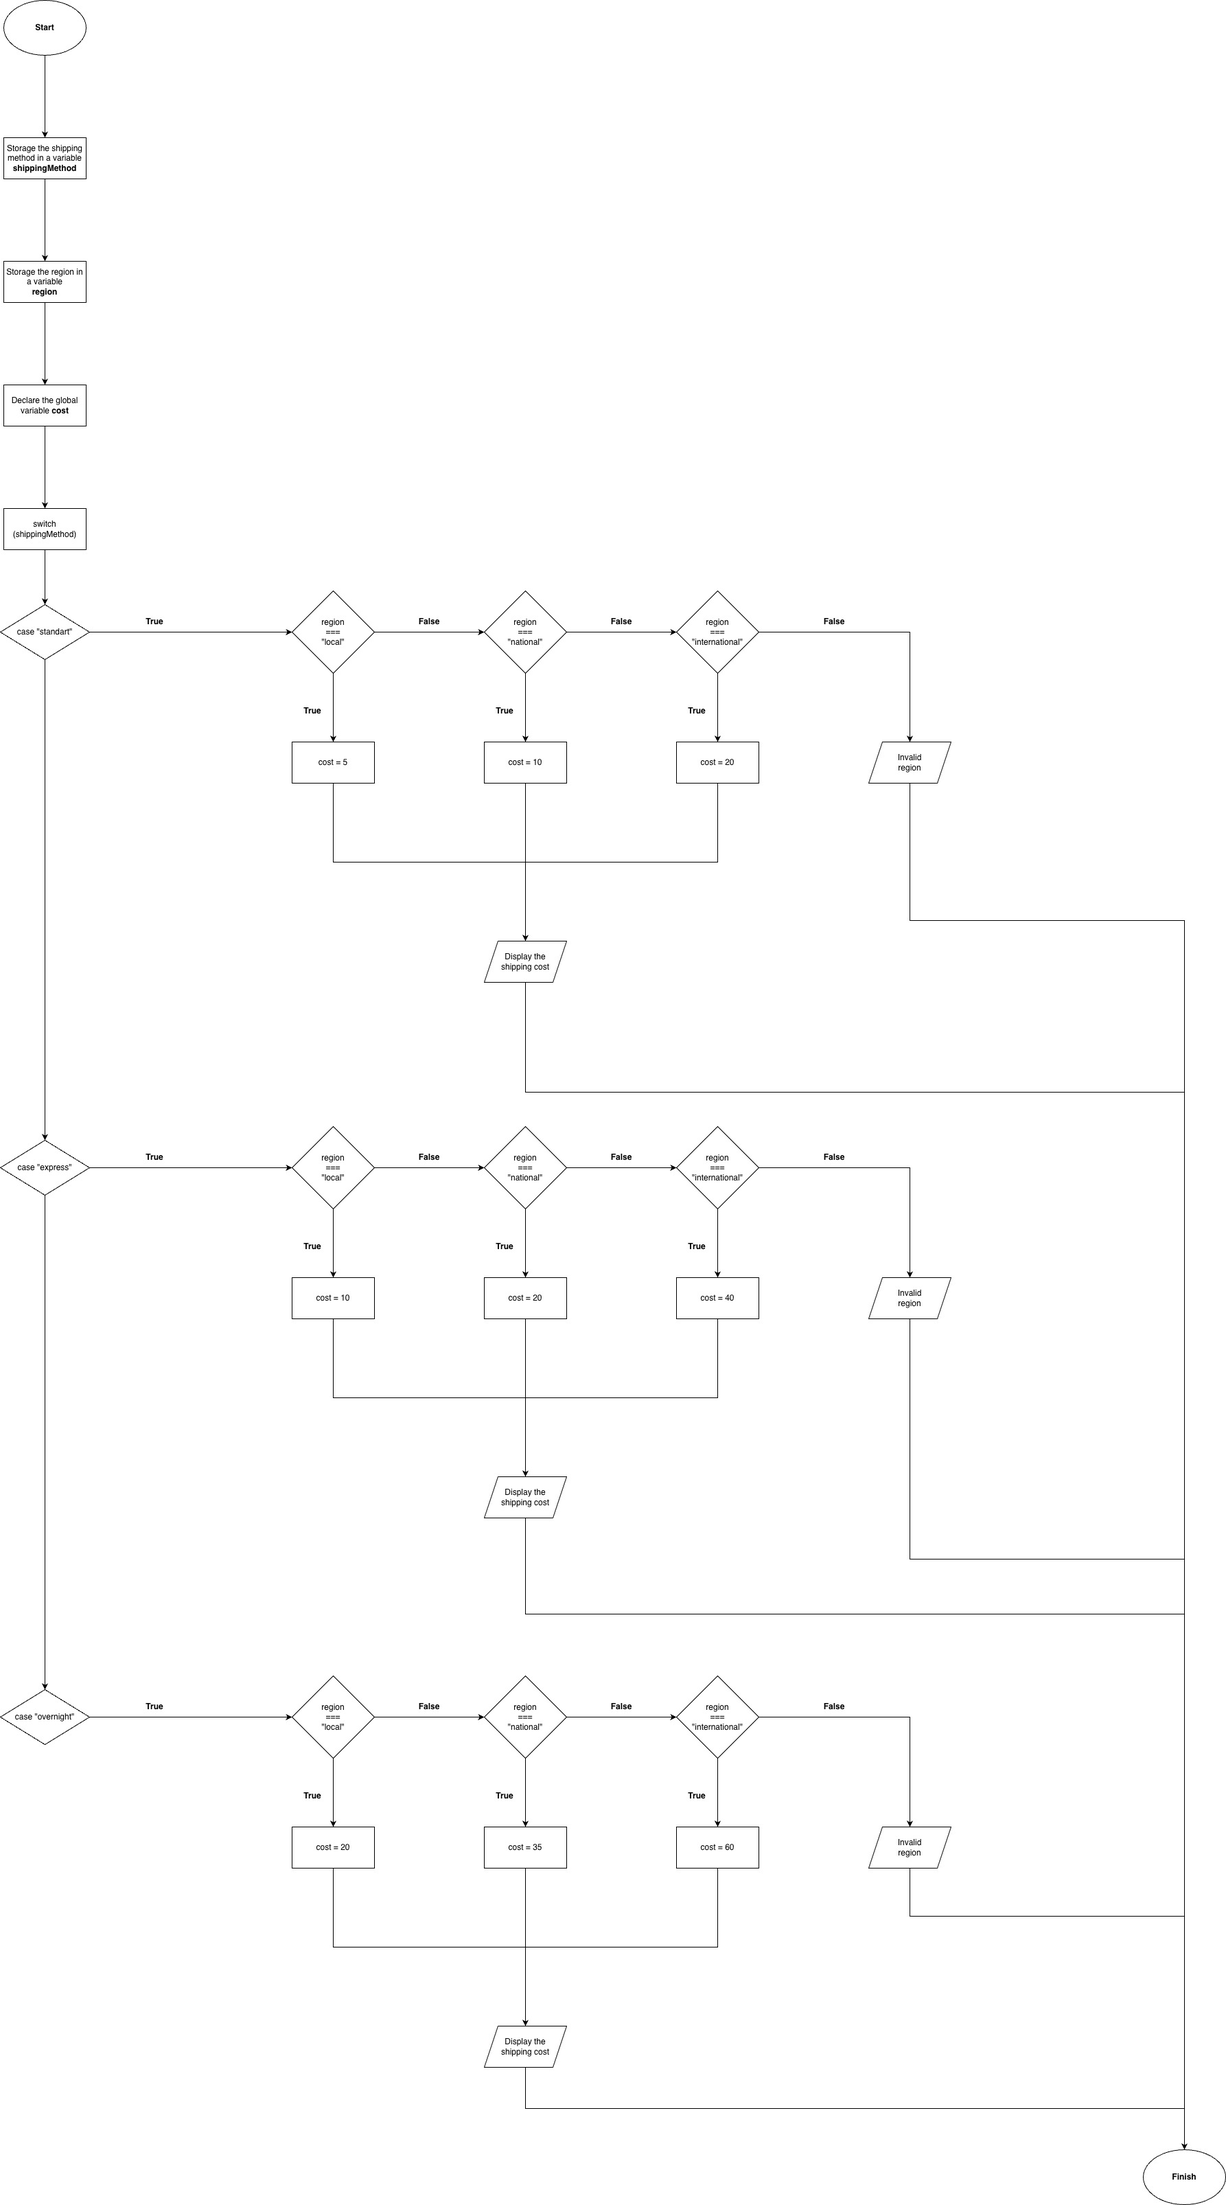
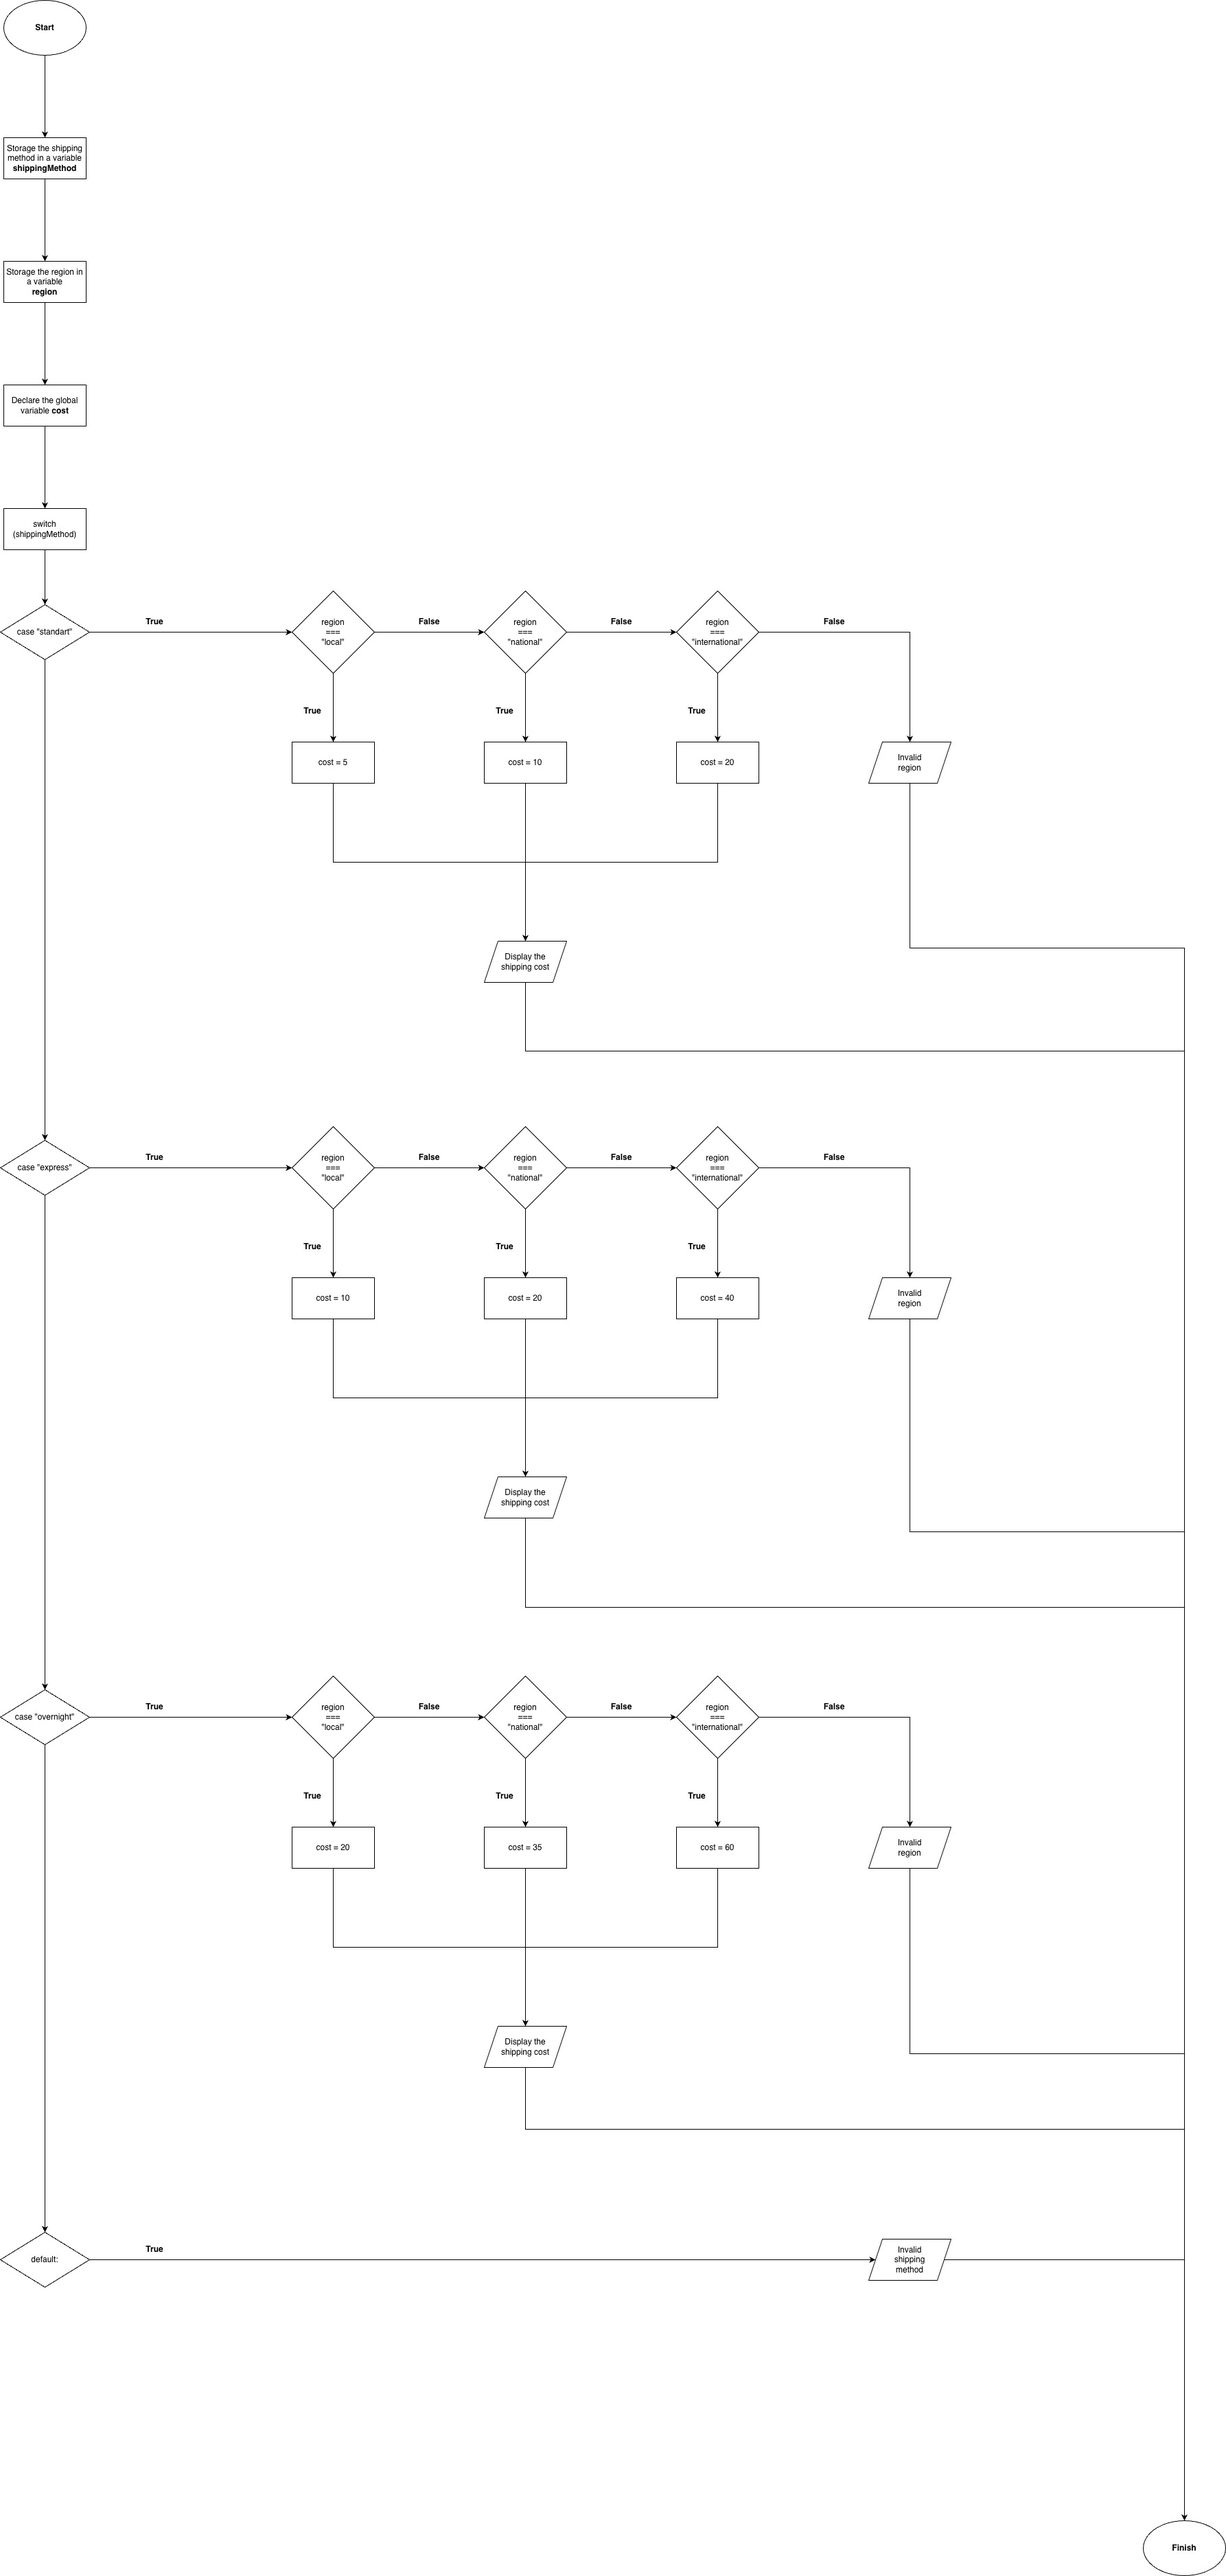
class 59 04-08-2026

diff --git a/class-59/problem-23/problem-23.js b/class-59/problem-23/problem-23.js
@@ -2,7 +2,7 @@
 
 // Storage the shipping variables
 const shippingMethod = "express";
-const region = "International";
+const region = "international";
 
 // Global shipping cost variable
 let cost = 0;
@@ -14,7 +14,7 @@ switch(shippingMethod) {
             cost = 5;
         } else if (region === "national") {
             cost = 10;
-        } else if (region === "International") {
+        } else if (region === "international") {
             cost = 20;
         } else {
             console.log("Invalid region.");
@@ -22,4 +22,89 @@ switch(shippingMethod) {
         }
         console.log("Shipping cost : $", cost);
         break;
+
+    case "express":
+        if (region === "local") {
+            cost = 10;
+        } else if (region === "national") {
+            cost = 20;
+        } else if (region === "international") {
+            cost = 40;
+        } else {
+            console.log("Invalid region.");
+            break;
+        }
+        console.log("Shipping cost : $", cost);
+        break;
+
+    case "overnight":
+        if (region === "local") {
+            cost = 20;
+        } else if (region === "national") {
+            cost = 35;
+        } else if (region === "international") {
+            cost = 60;
+        } else {
+            console.log("Invalid region.");
+            break;
+        }
+        console.log("Shipping cost : $", cost);
+        break;
+    
+    default:
+        console.log("Invalid shipping method.");
+        
 }
+
+/*
+---------------------------------------
+Desktop Test
+---------------------------------------
+
+shippingMethod = "standard"
+region = "local"
+=> Shipping cost: $5
+
+shippingMethod = "standard"
+region = "national"
+=> Shipping cost: $10
+
+shippingMethod = "standard"
+region = "international"
+=> Shipping cost: $20
+
+
+shippingMethod = "express"
+region = "local"
+=> Shipping cost: $10
+
+shippingMethod = "express"
+region = "national"
+=> Shipping cost: $20
+
+shippingMethod = "express"
+region = "international"
+=> Shipping cost: $40
+
+
+shippingMethod = "overnight"
+region = "local"
+=> Shipping cost: $20
+
+shippingMethod = "overnight"
+region = "national"
+=> Shipping cost: $35
+
+shippingMethod = "overnight"
+region = "international"
+=> Shipping cost: $60
+
+
+shippingMethod = "fast"
+region = "local"
+=> Invalid shipping method.
+
+shippingMethod = "standard"
+region = "mars"
+=> Invalid region.
+*/

diff --git a/class-59/challenge/problem-24.md b/class-59/challenge/problem-24.md
@@ -1,0 +1,88 @@
+# Programming Exercise: Movie Rating Classification
+
+## Introduction
+
+In many applications, programs must classify information based on predefined 
+categories. For example, movie platforms often display ratings that indicate 
+whether a movie is appropriate for certain audiences.
+
+To handle multiple possible values efficiently, JavaScript provides the **`switch` 
+statement**, which allows a program to execute different blocks of code depending 
+on the value of a variable.
+
+In this exercise, you will create a program that interprets a **movie rating code** 
+and prints a description of the rating.
+
+---
+
+## Problem Description
+
+Create a program that evaluates a variable called `rating` and prints a message 
+describing the movie classification.
+
+The program contains the following variable:
+
+```javascript
+const rating = "PG";
+```
+
+**Possible movie ratings:**
+
+Rating	|   Meaning
+G	    |   General audiences
+PG	    |   Parental guidance suggested
+PG-13	|   Parents strongly cautioned
+R	    |   Restricted
+NC-17	|   Adults only
+
+Your program must use a switch statement to determine the correct description for 
+the rating.
+
+If the value of rating does not match any known rating, the program must display 
+a message indicating the rating is invalid.
+
+---
+
+## Input
+
+The program uses a predefined variable:
+
+```javascript
+const rating = "PG";
+```
+
+> Students can change the value to test different cases.
+
+---
+
+## Expected Output
+
+Examples:
+
+```
+rating = "G"
+Output: General audiences.
+```
+
+```
+rating = "PG"
+Output: Parental guidance suggested.
+```
+
+```
+rating = "X"
+Output: Invalid movie rating.
+```
+
+---
+
+Requirements
+
+Your solution must:
+
+- Create the flowchart
+- Be written in JavaScript
+- Run using Node.js
+- Use a switch statement
+- Include a default case
+- Display the result using `console.log()`
